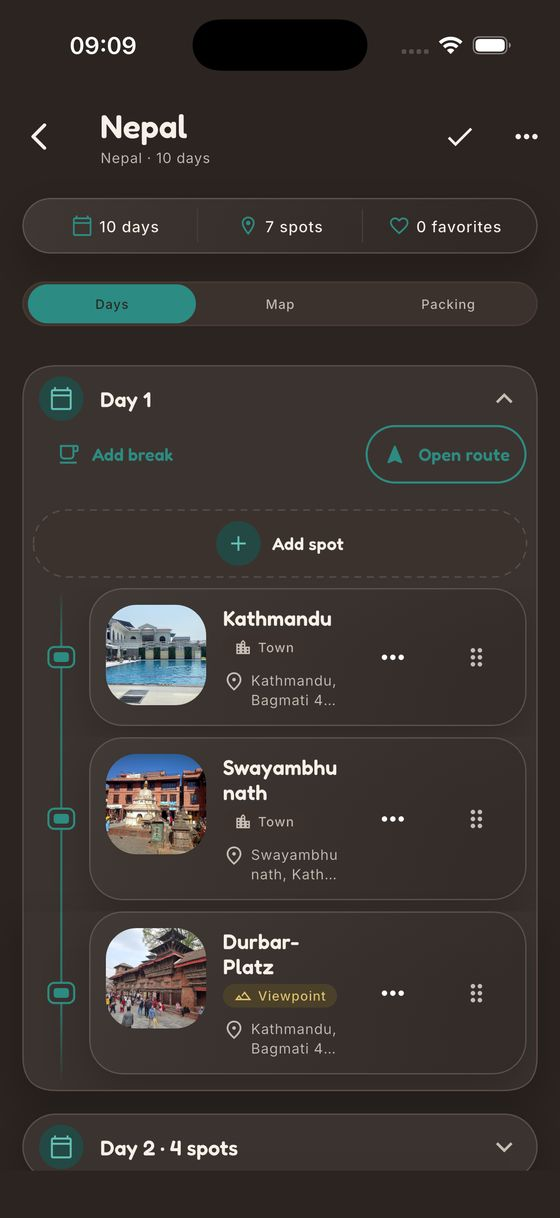
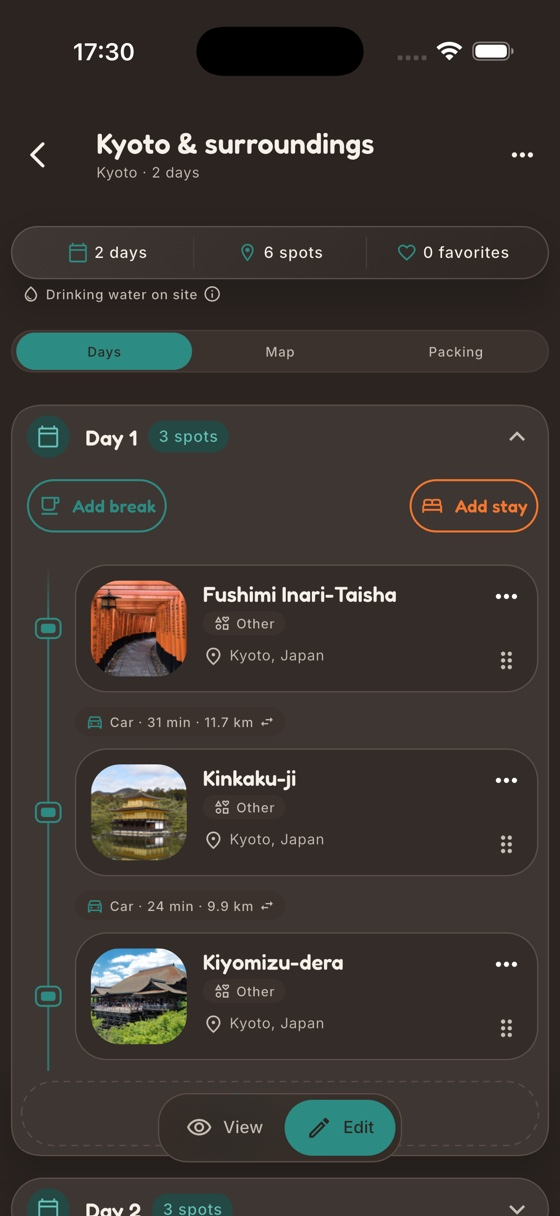
Update README and HTML files with new landing-page screenshot details and image sources

diff --git a/de/index.html b/de/index.html
@@ -79,7 +79,7 @@
     </section>
     <section class="app-preview container" id="app" aria-labelledby="app-title">
       <div class="section-heading"><p class="eyebrow">Ein Blick in die App</p><h2 class="heading--accent" id="app-title">Deine Welt. <span class="text-highlight">Schön <span class="sentence-end">sortiert.</span></span></h2><p>Alle Orte, deine Karte und der nächste Reiseplan – immer mit dabei.</p></div>
-      <div class="app-shots"><figure class="app-shot"><figcaption><h3>Deine Orte</h3><p>Alles gesammelt. Schnell wiedergefunden.</p></figcaption><div class="app-shot__frame"><picture><source srcset="../img/app-spot-list.webp" type="image/webp"><img src="../img/app-spot-list.jpg" alt="Nach Ländern sortierte Orte mit Suchfunktion und Kategorien in SpotJar." width="560" height="1218" loading="lazy" decoding="async"></picture></div></figure><figure class="app-shot"><figcaption><h3>Deine Karte</h3><p>Die nächste Idee ist vielleicht ganz nah.</p></figcaption><div class="app-shot__frame"><picture><source srcset="../img/app-map-pins.webp" type="image/webp"><img src="../img/app-map-pins.jpg" alt="SpotJar-Karte mit farbigen Pins für gesammelte und erlebte Orte." width="560" height="1218" loading="lazy" decoding="async"></picture></div></figure><figure class="app-shot"><figcaption><h3>Deine Reisen</h3><p>Aus einzelnen Stopps wird dein Abenteuer.</p></figcaption><div class="app-shot__frame"><picture><source srcset="../img/app-trip-days.webp" type="image/webp"><img src="../img/app-trip-days.jpg" alt="Reiseplan mit Orten, die nach Reisetagen geordnet sind." width="560" height="1218" loading="lazy" decoding="async"></picture></div></figure></div>
+      <div class="app-shots"><figure class="app-shot"><figcaption><h3>Deine Orte</h3><p>Alles gesammelt. Schnell wiedergefunden.</p></figcaption><div class="app-shot__frame"><picture><source srcset="../img/app-spot-list.webp" type="image/webp"><img src="../img/app-spot-list.jpg" alt="Nach Ländern sortierte Orte mit Suchfunktion und Kategorien in SpotJar." width="560" height="1216" loading="lazy" decoding="async"></picture></div></figure><figure class="app-shot"><figcaption><h3>Deine Karte</h3><p>Die nächste Idee ist vielleicht ganz nah.</p></figcaption><div class="app-shot__frame"><picture><source srcset="../img/app-trip-route.webp" type="image/webp"><img src="../img/app-trip-route.jpg" alt="SpotJar-Reisekarte rund um Kyoto mit nummerierten Stopps entlang der Route." width="560" height="1216" loading="lazy" decoding="async"></picture></div></figure><figure class="app-shot"><figcaption><h3>Deine Reisen</h3><p>Aus einzelnen Stopps wird dein Abenteuer.</p></figcaption><div class="app-shot__frame"><picture><source srcset="../img/app-trip-days.webp" type="image/webp"><img src="../img/app-trip-days.jpg" alt="Reiseplan mit Orten, die nach Reisetagen geordnet sind." width="560" height="1216" loading="lazy" decoding="async"></picture></div></figure></div>
     </section>
     <section class="download container" aria-labelledby="download-title">
       <div class="download__inner"><div><p class="eyebrow">Der nächste schöne Ort wartet schon</p><h2 class="heading--accent" id="download-title">Was kommt in <span class="text-highlight">deinen <span class="sentence-end">Jar?</span></span></h2><p class="download__lead">Sammle die Orte, die du erleben möchtest.<br>Deine nächste Reise beginnt mit dem ersten.</p><a class="store-badge" href="https://apps.apple.com/at/app/spotjar/id6803794730" aria-label="Im App Store herunterladen"><img src="../images/badges/app-store.svg" alt="Im App Store herunterladen" width="180" height="60"></a><p class="download__android">Android kommt bald</p></div><img src="../img/illustrations/spotjar-full.svg" alt="" width="700" height="1100" loading="lazy" decoding="async"></div>

diff --git a/index.html b/index.html
@@ -79,7 +79,7 @@
     </section>
     <section class="app-preview container" id="app" aria-labelledby="app-title">
       <div class="section-heading"><p class="eyebrow">A look inside</p><h2 class="heading--accent" id="app-title">Your world. <span class="text-highlight">Beautifully <span class="sentence-end">organized.</span></span></h2><p>Your places, your map and your next trip – always with you.</p></div>
-      <div class="app-shots"><figure class="app-shot"><figcaption><h3>Your places</h3><p>All collected. Easy to find again.</p></figcaption><div class="app-shot__frame"><picture><source srcset="./img/app-spot-list.webp" type="image/webp"><img src="./img/app-spot-list.jpg" alt="Places sorted by country with search and category filters in SpotJar." width="560" height="1218" loading="lazy" decoding="async"></picture></div></figure><figure class="app-shot"><figcaption><h3>Your map</h3><p>Your next idea might be just around the corner.</p></figcaption><div class="app-shot__frame"><picture><source srcset="./img/app-map-pins.webp" type="image/webp"><img src="./img/app-map-pins.jpg" alt="SpotJar map with colorful pins for collected and visited places." width="560" height="1218" loading="lazy" decoding="async"></picture></div></figure><figure class="app-shot"><figcaption><h3>Your trips</h3><p>Turn individual stops into your adventure.</p></figcaption><div class="app-shot__frame"><picture><source srcset="./img/app-trip-days.webp" type="image/webp"><img src="./img/app-trip-days.jpg" alt="A trip plan with places organized by travel day." width="560" height="1218" loading="lazy" decoding="async"></picture></div></figure></div>
+      <div class="app-shots"><figure class="app-shot"><figcaption><h3>Your places</h3><p>All collected. Easy to find again.</p></figcaption><div class="app-shot__frame"><picture><source srcset="./img/app-spot-list.webp" type="image/webp"><img src="./img/app-spot-list.jpg" alt="Places sorted by country with search and category filters in SpotJar." width="560" height="1216" loading="lazy" decoding="async"></picture></div></figure><figure class="app-shot"><figcaption><h3>Your map</h3><p>Your next idea might be just around the corner.</p></figcaption><div class="app-shot__frame"><picture><source srcset="./img/app-trip-route.webp" type="image/webp"><img src="./img/app-trip-route.jpg" alt="SpotJar trip map around Kyoto with numbered stops connected by a route." width="560" height="1216" loading="lazy" decoding="async"></picture></div></figure><figure class="app-shot"><figcaption><h3>Your trips</h3><p>Turn individual stops into your adventure.</p></figcaption><div class="app-shot__frame"><picture><source srcset="./img/app-trip-days.webp" type="image/webp"><img src="./img/app-trip-days.jpg" alt="A trip plan with places organized by travel day." width="560" height="1216" loading="lazy" decoding="async"></picture></div></figure></div>
     </section>
     <section class="download container" aria-labelledby="download-title">
       <div class="download__inner"><div><p class="eyebrow">Your next favorite place is out there</p><h2 class="heading--accent" id="download-title">What’s going in <span class="text-highlight">your <span class="sentence-end">jar?</span></span></h2><p class="download__lead">Collect the places you want to discover.<br>Your next trip starts with the first one.</p><a class="store-badge" href="https://apps.apple.com/at/app/spotjar/id6803794730" aria-label="Download on the App Store"><img src="./images/badges/app-store.svg" alt="Download on the App Store" width="180" height="60"></a><p class="download__android">Android coming soon</p></div><img src="./img/illustrations/spotjar-full.svg" alt="" width="700" height="1100" loading="lazy" decoding="async"></div>

diff --git a/images/README.md b/images/README.md
@@ -7,7 +7,10 @@ This records the owner's statement; it is not independent clearance of every dep
 - `img/illustrations/*.webp` are optimized copies of artwork in the sibling app repository's
   `assets/images/illustrations/`; `img/illustrations/spotjar-full.svg` and `img/marker-*.svg`
   use the SVG originals from that repository. The source mapping is in the website README.
-- The app screenshots in `img/app-*` come from SpotJar. Map data, third-party pictures, logos and
+- The landing-page screenshots (`img/app-spot-list.*`, `img/app-trip-route.*`, and
+  `img/app-trip-days.*`) come from `../Marketing/Mocks/v1.1.3/`; the source mapping is in the
+  website README. Other app screenshots in `img/app-*` also come from SpotJar.
+  Map data, third-party pictures, logos and
   interfaces depicted inside a screenshot or illustration can have separate rights and usage
   conditions. Preserve visible provider attributions; review promotional usage independently.
 - The wordmark and other SpotJar artwork are supplied by the project owner.

diff --git a/README.md b/README.md
@@ -49,6 +49,14 @@ The four `img/marker-*.svg` files come from `../app-spotjar/assets/images/marker
 
 Keep exported web artwork in `img/` so the existing deployment includes it. Source PNGs remain in the app. Screenshots have WebP sources and JPEG fallbacks in `img/`; update both language versions when replacing them.
 
+The three landing-page screenshots come from `../Marketing/Mocks/v1.1.3/`, exported at 560 × 1216 pixels in both formats:
+
+| Website asset (WebP and JPEG) | Marketing source |
+| --- | --- |
+| `app-spot-list` | `2.png` — populated spot list |
+| `app-trip-route` | `6.png` — Kyoto trip map |
+| `app-trip-days` | `5.png` — Kyoto day plan |
+
 ## Deploying
 
 The existing GitHub Actions workflow deploys pushes to `main` to GitHub Pages. It copies the static files without a build step. This repository uses the custom domain `spotjar.app`; preserve `CNAME`, `.well-known/` and the `t/` and `j/` app-link pages.
